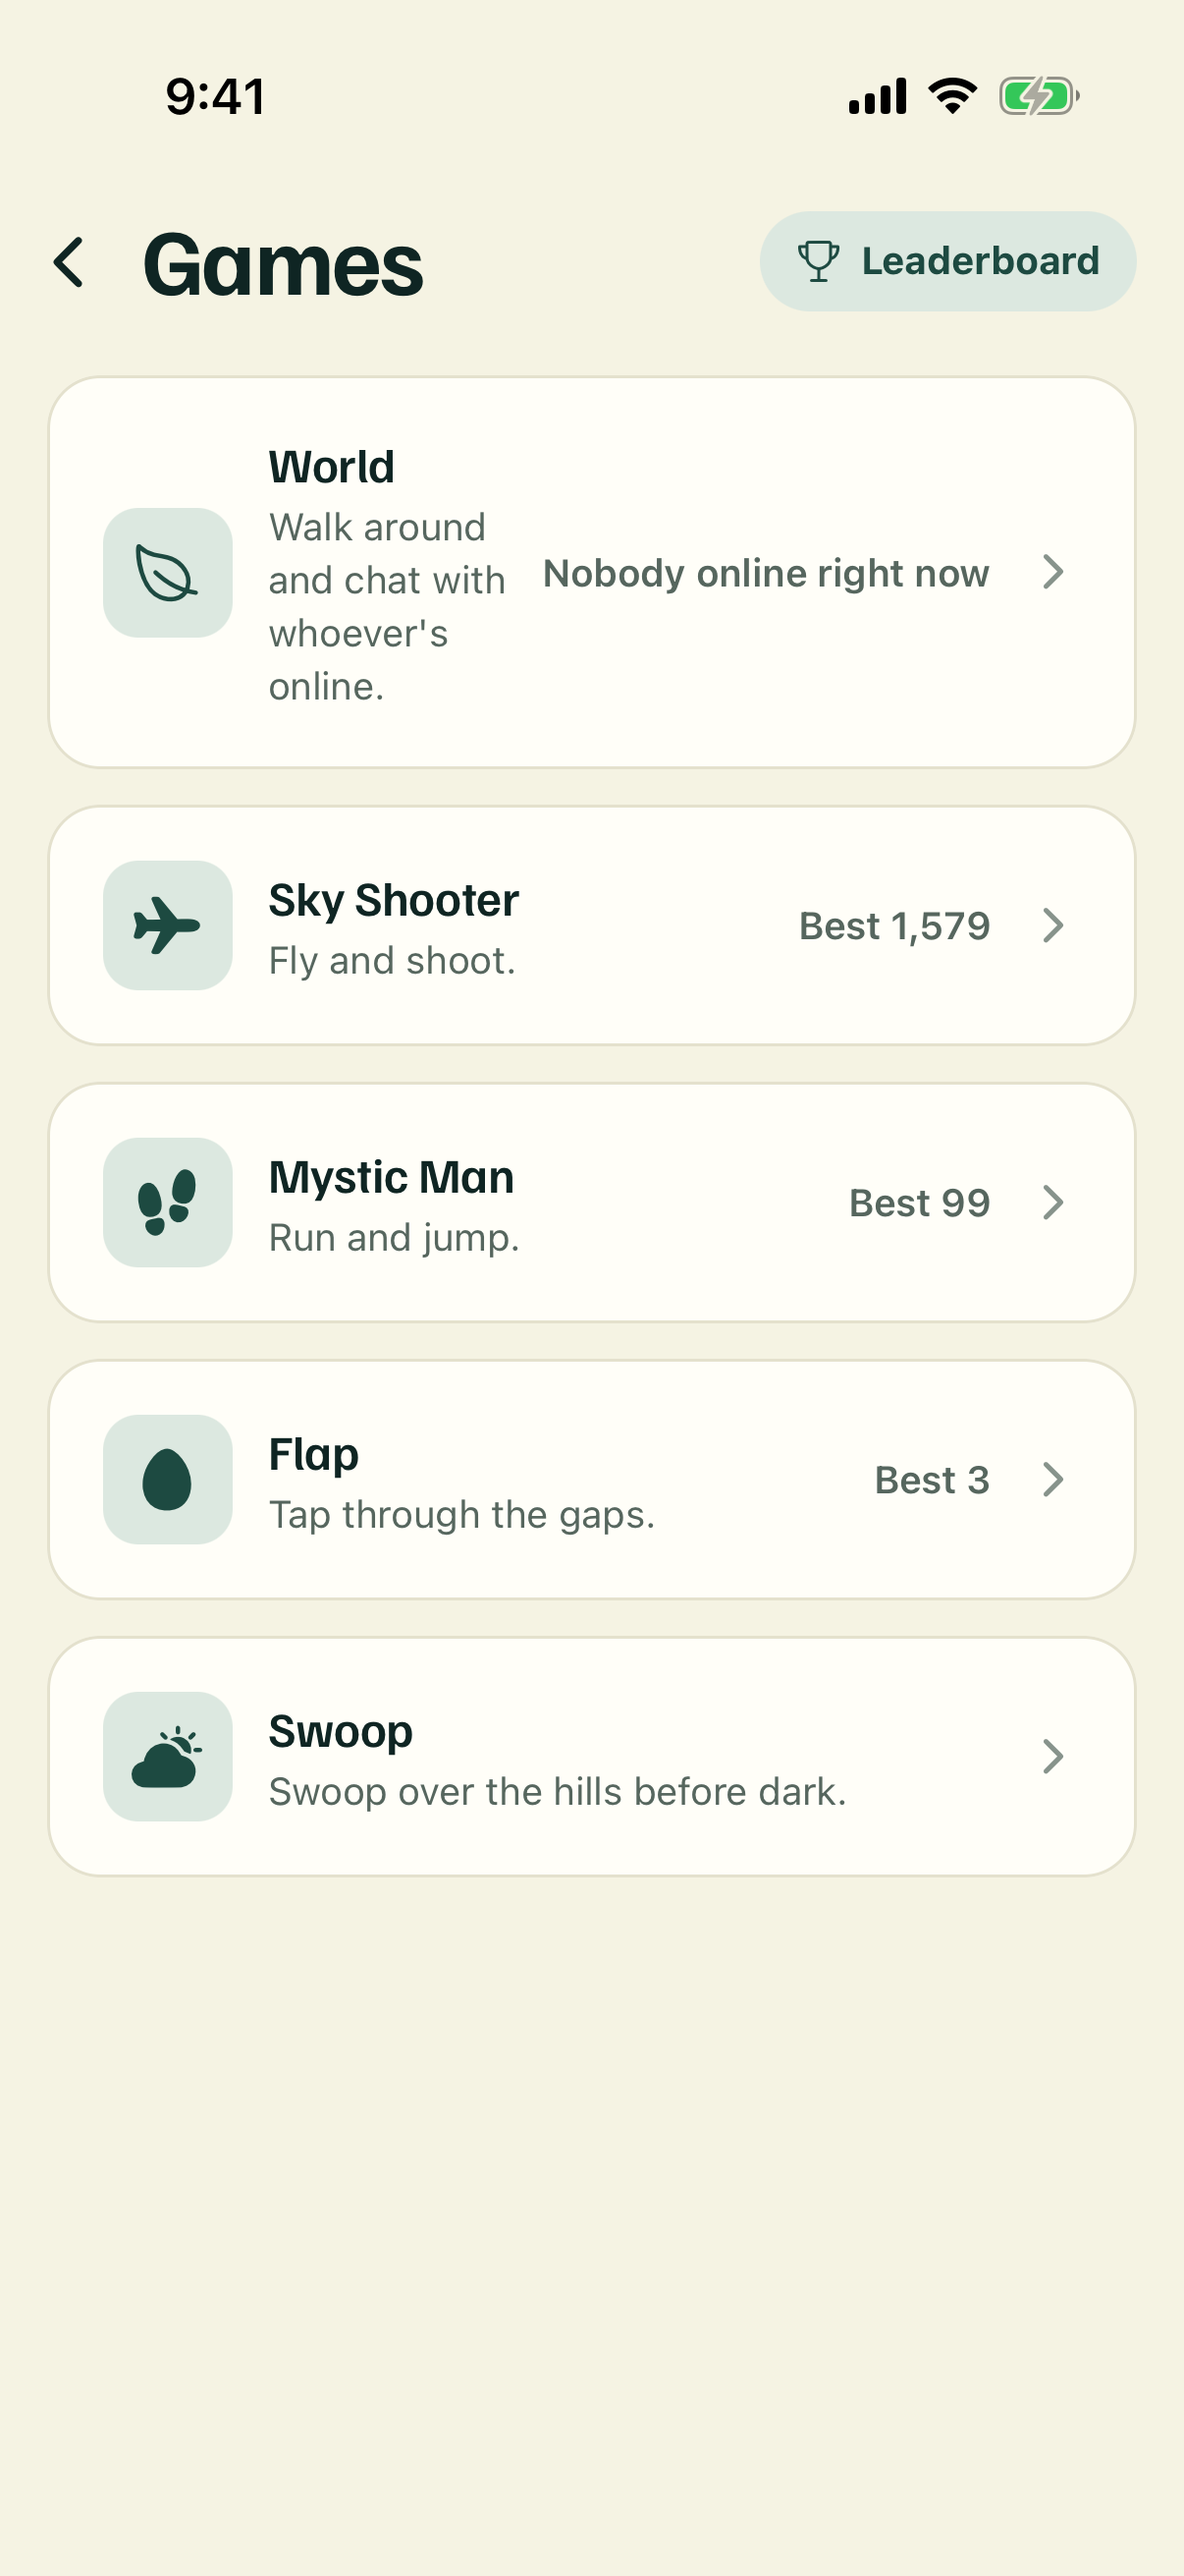
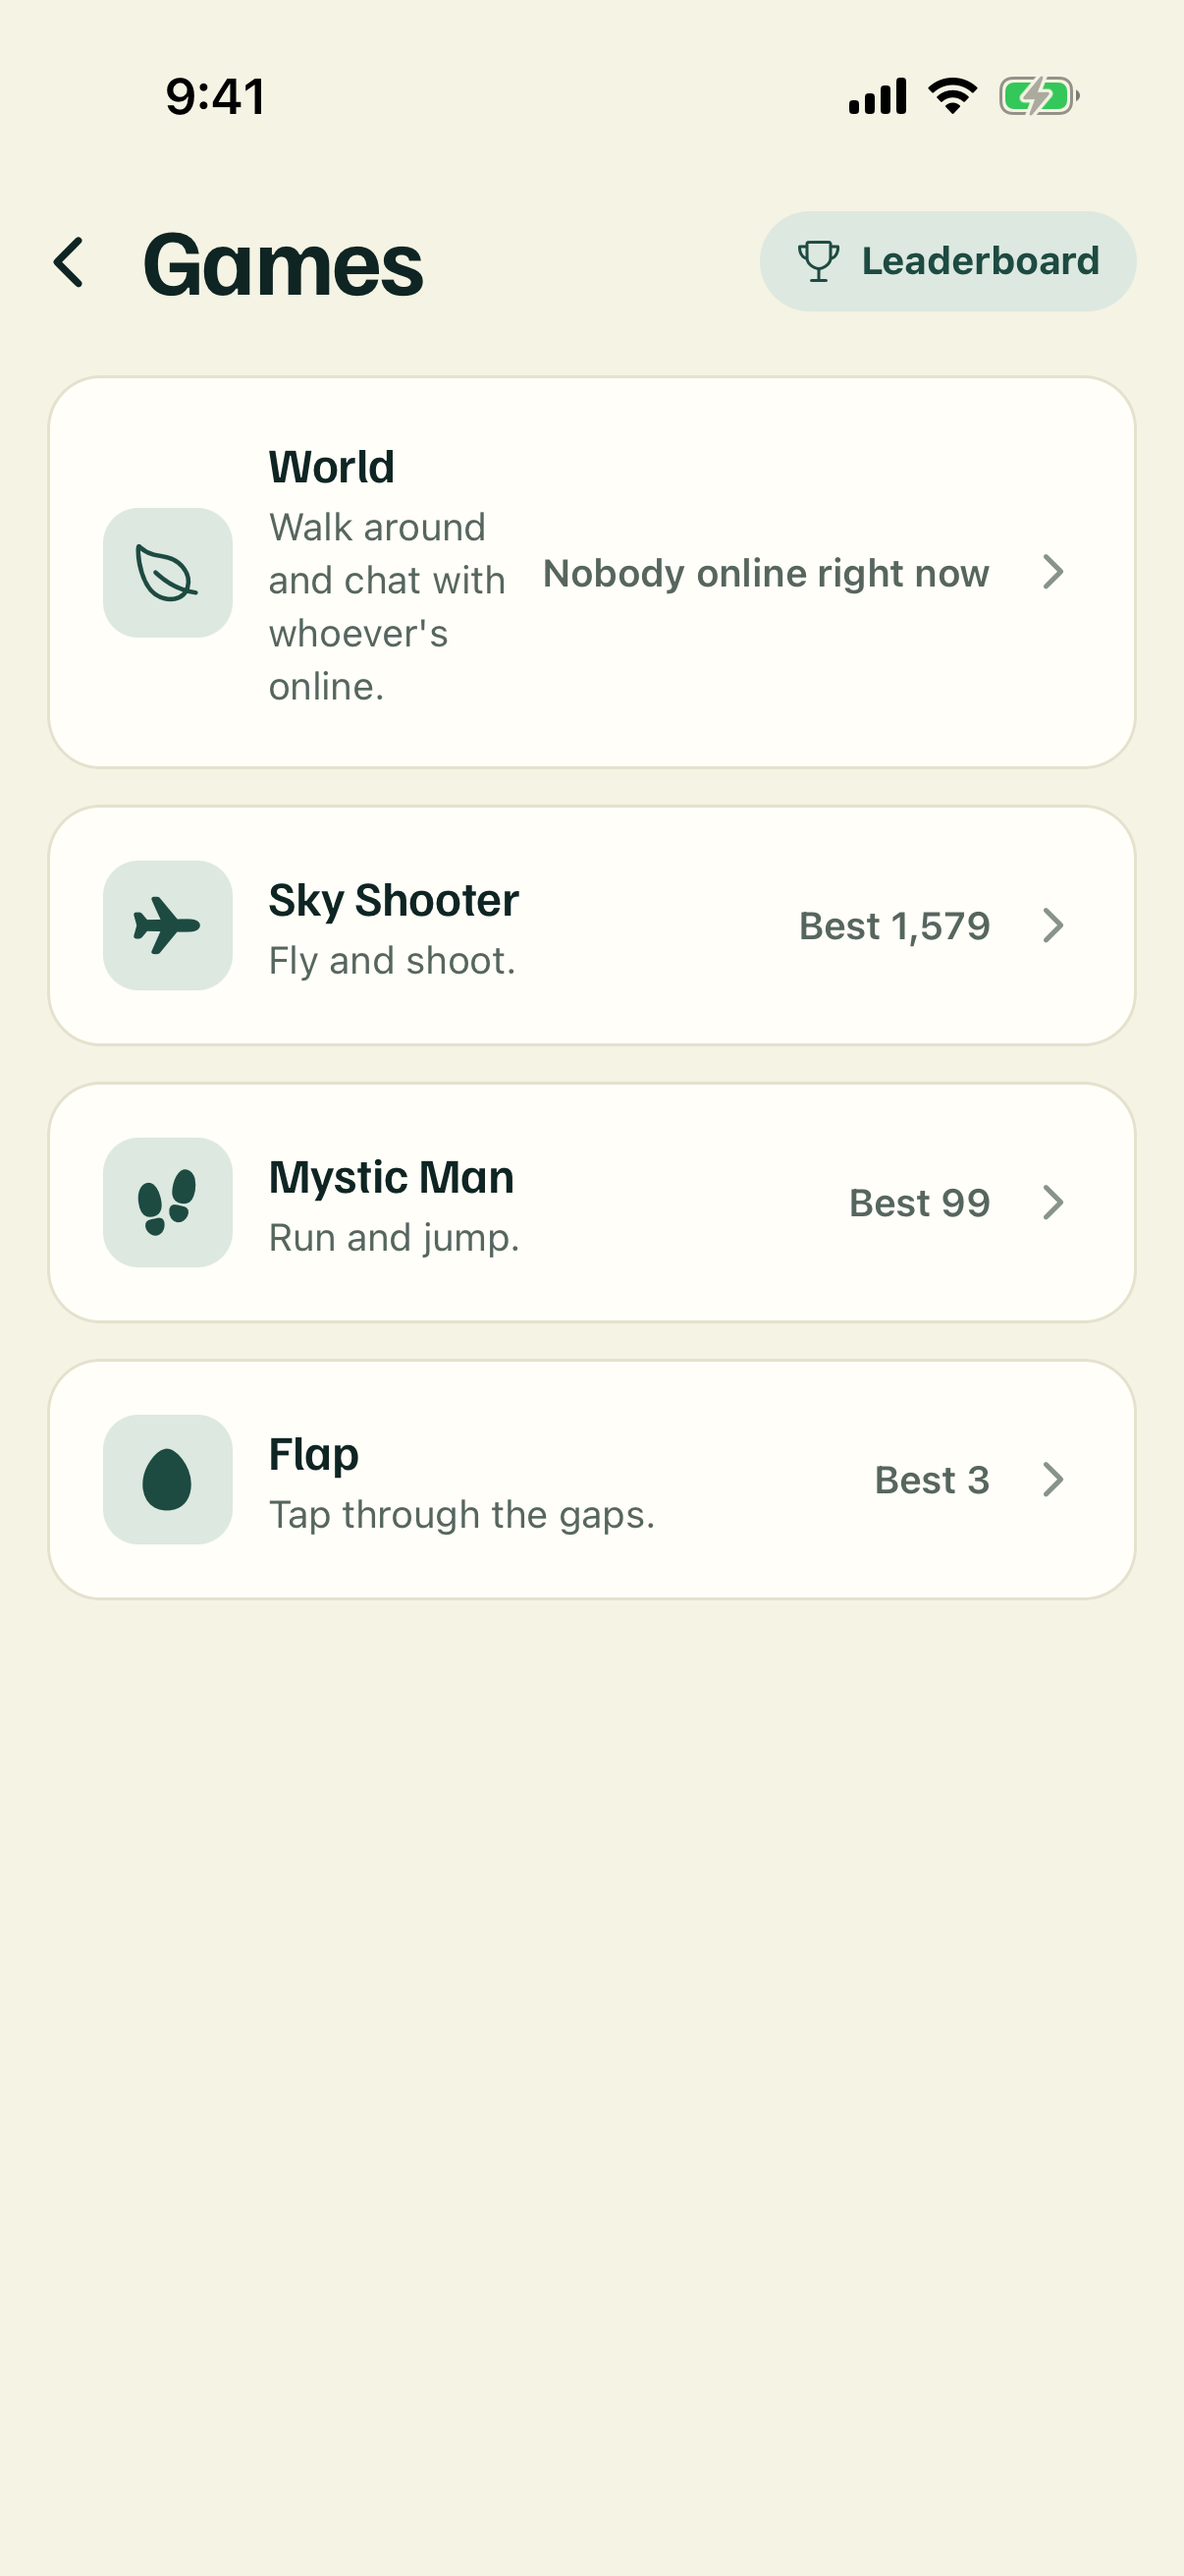
screenshots for HEAD

diff --git a/HEAD/README.md b/HEAD/README.md
@@ -1,76 +1,30 @@
-# verify: full
+# verify: scoped
 
-- because core: src/theme.ts
+- because world: src/world/Person.tsx
+- because world: src/world/hatHeight.ts
 
 | Step | Result | Time | Detail |
 | --- | --- | --- | --- |
 | base tree | ✔ pass | 0s |  |
-| native fingerprint | ✔ pass | 4s | unchanged on iOS and Android: over-the-air updates reach current builds |
-| lint | ✔ pass | 76s |  |
+| native fingerprint | ✔ pass | 3s | unchanged on iOS and Android: over-the-air updates reach current builds |
+| lint | ✔ pass | 62s |  |
 | unused code (knip) | ✔ pass | 5s |  |
-| typecheck | ✔ pass | 17s |  |
-| unit tests with coverage | ✔ pass | 30s |  |
-| verify lock | ✔ pass | 1490s | took it after waiting 1490s for pid 78222, feat/hill-glider in /Users/xtectra/GitHub/worktrees/the-shed-mobile-hill-glider, since 2026-11-24T12:30:13.567Z |
-| before: local backend | ✔ pass | 17s | before functions on :3270 |
+| typecheck | ✔ pass | 15s |  |
+| related unit tests | ✔ pass | 2s | 4 passed (4) |
+| verify lock | ✔ pass | 0s | free, taken at once |
+| before: local backend | ✔ pass | 15s | before functions on :3270 |
 | before: iOS reset | ✔ pass | 1s |  |
-| before: iOS | ✔ pass | 369s | 57 screenshots; still moving after 10 frames: admin-review, admin-all |
+| before: iOS | ✔ pass | 110s | 10 screenshots, every one settled |
 | after: local backend | ✔ pass | 15s | after functions on :3270 |
 | after: iOS reset | ✔ pass | 1s |  |
-| after: iOS | ✔ pass | 355s | 57 screenshots; still moving after 10 frames: admin-review, admin-all |
+| after: iOS | ✔ pass | 108s | 10 screenshots, every one settled |
 
 ## Screenshots
 
 | Screen | Before | After |
 | --- | --- | --- |
-| ios `admin-admin` | <img src="before/ios/admin-admin.png" width="260"> | <img src="after/ios/admin-admin.png" width="260"> |
-| ios `admin-admin_tab_system` | <img src="before/ios/admin-admin_tab_system.png" width="260"> | <img src="after/ios/admin-admin_tab_system.png" width="260"> |
-| ios `admin-admin_tab_teams` | <img src="before/ios/admin-admin_tab_teams.png" width="260"> | <img src="after/ios/admin-admin_tab_teams.png" width="260"> |
-| ios `admin-all` | <img src="before/ios/admin-all.png" width="260"> | <img src="after/ios/admin-all.png" width="260"> |
-| ios `admin-announcements` | <img src="before/ios/admin-announcements.png" width="260"> | <img src="after/ios/admin-announcements.png" width="260"> |
-| ios `admin-attendance` | <img src="before/ios/admin-attendance.png" width="260"> | <img src="after/ios/admin-attendance.png" width="260"> |
-| ios `admin-attendance_event_eventId` | <img src="before/ios/admin-attendance_event_eventId.png" width="260"> | <img src="after/ios/admin-attendance_event_eventId.png" width="260"> |
-| ios `admin-attendance_member_member_3A_memberId` | <img src="before/ios/admin-attendance_member_member_3A_memberId.png" width="260"> | <img src="after/ios/admin-attendance_member_member_3A_memberId.png" width="260"> |
-| ios `admin-attendance_merges` | <img src="before/ios/admin-attendance_merges.png" width="260"> | <img src="after/ios/admin-attendance_merges.png" width="260"> |
-| ios `admin-calendar` | <img src="before/ios/admin-calendar.png" width="260"> | <img src="after/ios/admin-calendar.png" width="260"> |
-| ios `admin-calendar_history` | <img src="before/ios/admin-calendar_history.png" width="260"> | <img src="after/ios/admin-calendar_history.png" width="260"> |
-| ios `admin-calendar_view_week` | <img src="before/ios/admin-calendar_view_week.png" width="260"> | <img src="after/ios/admin-calendar_view_week.png" width="260"> |
-| ios `admin-checkin_checkInToken` | <img src="before/ios/admin-checkin_checkInToken.png" width="260"> | <img src="after/ios/admin-checkin_checkInToken.png" width="260"> |
-| ios `admin-churches` | <img src="before/ios/admin-churches.png" width="260"> | <img src="after/ios/admin-churches.png" width="260"> |
-| ios `admin-design_requests` | <img src="before/ios/admin-design_requests.png" width="260"> | <img src="after/ios/admin-design_requests.png" width="260"> |
-| ios `admin-design_requests_new` | <img src="before/ios/admin-design_requests_new.png" width="260"> | <img src="after/ios/admin-design_requests_new.png" width="260"> |
-| ios `admin-devotionals` | <img src="before/ios/admin-devotionals.png" width="260"> | <img src="after/ios/admin-devotionals.png" width="260"> |
-| ios `admin-edit_home` | <img src="before/ios/admin-edit_home.png" width="260"> | <img src="after/ios/admin-edit_home.png" width="260"> |
-| ios `admin-event_requests` | <img src="before/ios/admin-event_requests.png" width="260"> | <img src="after/ios/admin-event_requests.png" width="260"> |
-| ios `admin-event_requests_new` | <img src="before/ios/admin-event_requests_new.png" width="260"> | <img src="after/ios/admin-event_requests_new.png" width="260"> |
-| ios `admin-finance_settings` | <img src="before/ios/admin-finance_settings.png" width="260"> | <img src="after/ios/admin-finance_settings.png" width="260"> |
 | ios `admin-games` | <img src="before/ios/admin-games.png" width="260"> | <img src="after/ios/admin-games.png" width="260"> |
-| ios `admin-games_flappy` | <img src="before/ios/admin-games_flappy.png" width="260"> | <img src="after/ios/admin-games_flappy.png" width="260"> |
-| ios `admin-games_glider` | <img src="before/ios/admin-games_glider.png" width="260"> | <img src="after/ios/admin-games_glider.png" width="260"> |
-| ios `admin-games_glider_preview_dive` | <img src="before/ios/admin-games_glider_preview_dive.png" width="260"> | <img src="after/ios/admin-games_glider_preview_dive.png" width="260"> |
-| ios `admin-games_glider_preview_launch` | <img src="before/ios/admin-games_glider_preview_launch.png" width="260"> | <img src="after/ios/admin-games_glider_preview_launch.png" width="260"> |
-| ios `admin-games_glider_preview_night` | <img src="before/ios/admin-games_glider_preview_night.png" width="260"> | <img src="after/ios/admin-games_glider_preview_night.png" width="260"> |
-| ios `admin-games_glider_preview_world` | <img src="before/ios/admin-games_glider_preview_world.png" width="260"> | <img src="after/ios/admin-games_glider_preview_world.png" width="260"> |
-| ios `admin-games_leaderboard` | <img src="before/ios/admin-games_leaderboard.png" width="260"> | <img src="after/ios/admin-games_leaderboard.png" width="260"> |
-| ios `admin-games_leaderboard_game_glider` | <img src="before/ios/admin-games_leaderboard_game_glider.png" width="260"> | <img src="after/ios/admin-games_leaderboard_game_glider.png" width="260"> |
-| ios `admin-games_leaderboard_game_runner` | <img src="before/ios/admin-games_leaderboard_game_runner.png" width="260"> | <img src="after/ios/admin-games_leaderboard_game_runner.png" width="260"> |
-| ios `admin-games_runner` | <img src="before/ios/admin-games_runner.png" width="260"> | <img src="after/ios/admin-games_runner.png" width="260"> |
-| ios `admin-games_runner_preview_double` | <img src="before/ios/admin-games_runner_preview_double.png" width="260"> | <img src="after/ios/admin-games_runner_preview_double.png" width="260"> |
-| ios `admin-games_runner_preview_hang` | <img src="before/ios/admin-games_runner_preview_hang.png" width="260"> | <img src="after/ios/admin-games_runner_preview_hang.png" width="260"> |
-| ios `admin-games_runner_preview_tall` | <img src="before/ios/admin-games_runner_preview_tall.png" width="260"> | <img src="after/ios/admin-games_runner_preview_tall.png" width="260"> |
-| ios `admin-games_runner_preview_wide` | <img src="before/ios/admin-games_runner_preview_wide.png" width="260"> | <img src="after/ios/admin-games_runner_preview_wide.png" width="260"> |
-| ios `admin-games_shooter` | <img src="before/ios/admin-games_shooter.png" width="260"> | <img src="after/ios/admin-games_shooter.png" width="260"> |
-| ios `admin-grievances` | <img src="before/ios/admin-grievances.png" width="260"> | <img src="after/ios/admin-grievances.png" width="260"> |
-| ios `admin-grievances_new` | <img src="before/ios/admin-grievances_new.png" width="260"> | <img src="after/ios/admin-grievances_new.png" width="260"> |
-| ios `admin-grievances_tab_settings` | <img src="before/ios/admin-grievances_tab_settings.png" width="260"> | <img src="after/ios/admin-grievances_tab_settings.png" width="260"> |
 | ios `admin-home` | <img src="before/ios/admin-home.png" width="260"> | <img src="after/ios/admin-home.png" width="260"> |
-| ios `admin-insights_tab_attendance` | <img src="before/ios/admin-insights_tab_attendance.png" width="260"> | <img src="after/ios/admin-insights_tab_attendance.png" width="260"> |
-| ios `admin-insights_tab_general` | <img src="before/ios/admin-insights_tab_general.png" width="260"> | <img src="after/ios/admin-insights_tab_general.png" width="260"> |
-| ios `admin-mentoring` | <img src="before/ios/admin-mentoring.png" width="260"> | <img src="after/ios/admin-mentoring.png" width="260"> |
-| ios `admin-music` | <img src="before/ios/admin-music.png" width="260"> | <img src="after/ios/admin-music.png" width="260"> |
-| ios `admin-notifications` | <img src="before/ios/admin-notifications.png" width="260"> | <img src="after/ios/admin-notifications.png" width="260"> |
-| ios `admin-org` | <img src="before/ios/admin-org.png" width="260"> | <img src="after/ios/admin-org.png" width="260"> |
-| ios `admin-profile` | <img src="before/ios/admin-profile.png" width="260"> | <img src="after/ios/admin-profile.png" width="260"> |
-| ios `admin-review` | <img src="before/ios/admin-review.png" width="260"> | <img src="after/ios/admin-review.png" width="260"> |
 | ios `admin-root` | <img src="before/ios/admin-root.png" width="260"> | <img src="after/ios/admin-root.png" width="260"> |
 | ios `admin-world` | <img src="before/ios/admin-world.png" width="260"> | <img src="after/ios/admin-world.png" width="260"> |
 | ios `admin-world_calendar` | <img src="before/ios/admin-world_calendar.png" width="260"> | <img src="after/ios/admin-world_calendar.png" width="260"> |
